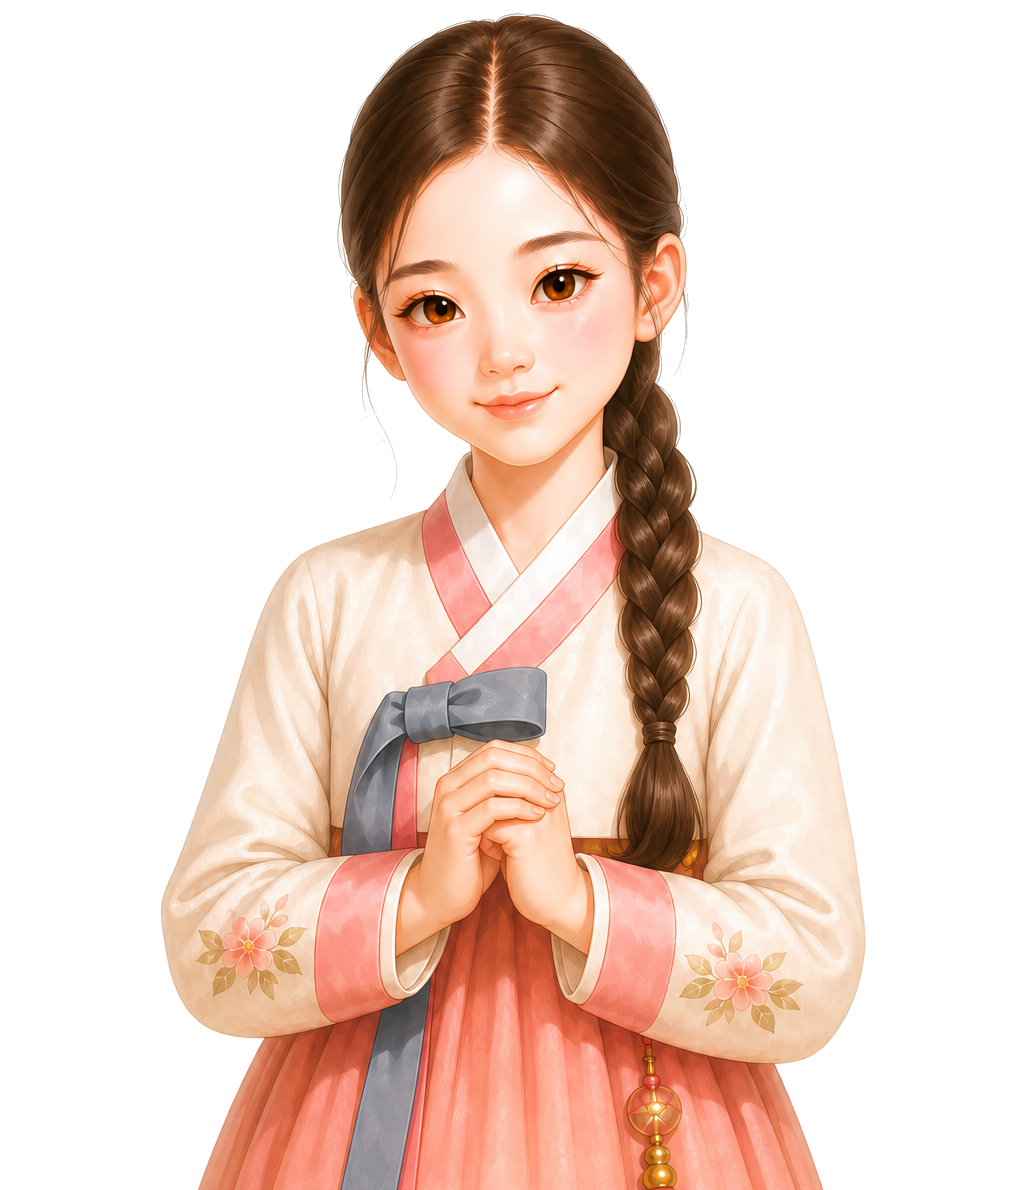
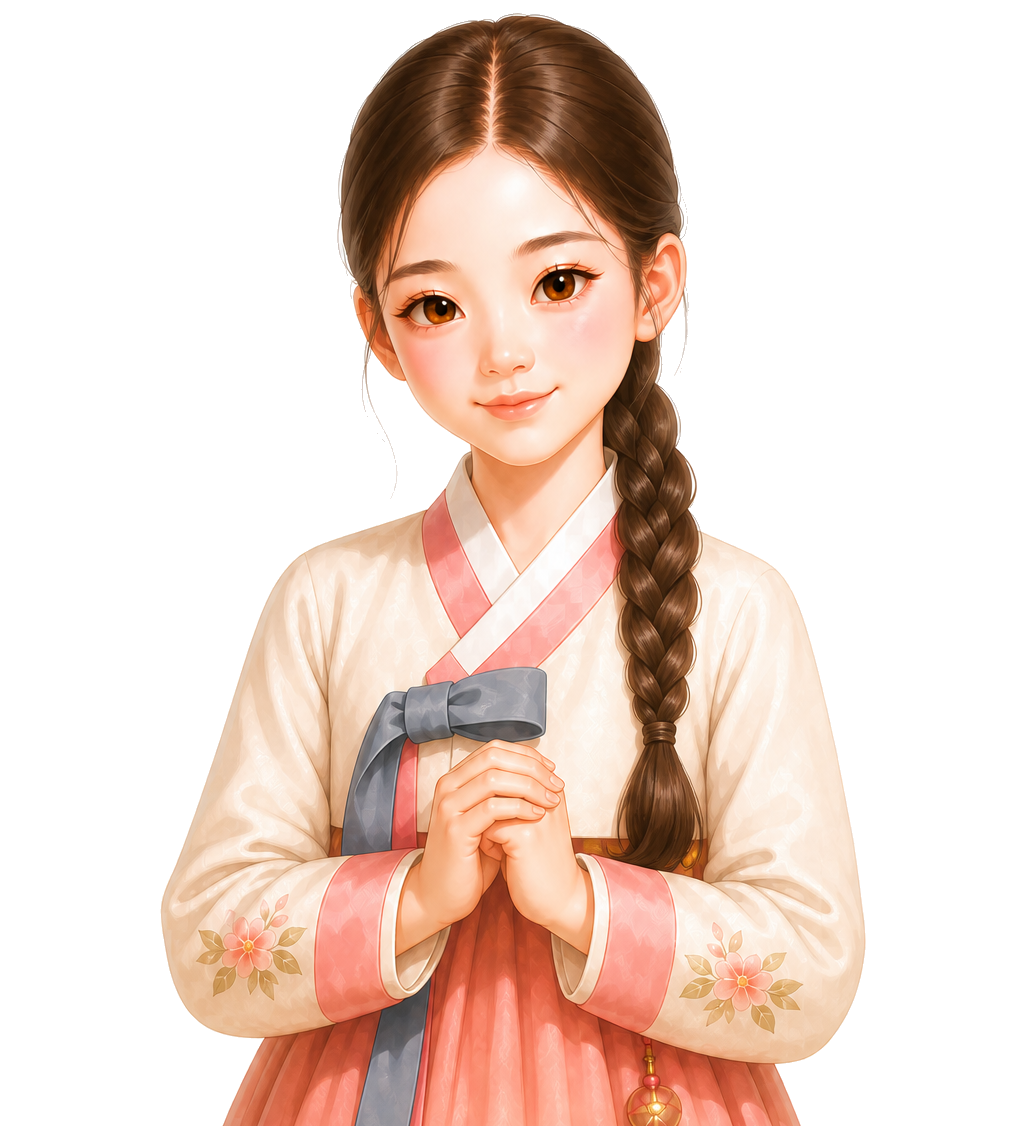
Crop festival dialogue portraits to upper body

Changed region(s): [[0.1562, 0.0, 0.8438, 1.0], [0.7812, 0.5284, 0.8125, 0.6217], [0.3438, 0.0622, 0.375, 0.1243]]

diff --git a/src/index.html b/src/index.html
@@ -4,8 +4,8 @@
   <meta charset="utf-8">
   <meta name="viewport" content="width=device-width,initial-scale=1,viewport-fit=cover">
   <title>선화공주 만들기 — 자산 로딩 테스트</title>
-  <link rel="stylesheet" href="style.css?v=0.64.253-debug">
-  <link rel="stylesheet" href="schedule.css?v=0.64.253-debug">
+  <link rel="stylesheet" href="style.css?v=0.64.254-debug">
+  <link rel="stylesheet" href="schedule.css?v=0.64.254-debug">
   <link rel="stylesheet" href="schedule-pm2.css?v=0.64.18-debug">
   <link rel="stylesheet" href="birthday.css?v=0.64.153-debug">
   <link rel="stylesheet" href="prologue.css?v=0.64.18-debug">
@@ -48,7 +48,7 @@
       </div>
       <span class="loading-caption">이야기를 열 준비가 되었어요</span>
       <button class="studio-start-sound" id="studioStartSound" type="button">인연의 문을 열기</button>
-      <small class="loading-version" aria-label="현재 게임 버전">v0.64.253-debug</small>
+      <small class="loading-version" aria-label="현재 게임 버전">v0.64.254-debug</small>
     </section>
     <section class="prologue" id="prologue" aria-label="이야기 시작 영상" hidden>
       <audio id="prologueMusic" src="../assets/audio/music/prologue-lantern-and-dawn.mp3" preload="auto" loop></audio>
@@ -258,6 +258,6 @@
       </div>
     </section>
   </main>
-  <script src="schedule-layer-manifests.js?v=0.64.253-debug"></script><script src="story-data.js?v=0.64.18-debug"></script><script src="app.js?v=0.64.253-debug"></script>
+  <script src="schedule-layer-manifests.js?v=0.64.254-debug"></script><script src="story-data.js?v=0.64.18-debug"></script><script src="app.js?v=0.64.254-debug"></script>
 </body>
 </html>

diff --git a/src/app.js b/src/app.js
@@ -248,7 +248,7 @@ const vacationIllustrations=[
 function unifiedAgeFolder(){return '09';}
 function scheduleFramePath(file){return `../assets/characters/seonhwa/schedule-actions/v2/${file}`;}
 function scheduleBasePath(file){return `../assets/characters/seonhwa/schedule-base/${file}`;}
-const scheduleAssetRevision='0.64.253-debug';
+const scheduleAssetRevision='0.64.254-debug';
 const scheduleQaParams=new URLSearchParams(location.search);
 const moonlightStandaloneQa=scheduleQaParams.get('qaHoliday')==='chuseok';
 const sehwaStandaloneQa=scheduleQaParams.get('qaHoliday')==='seollal';
